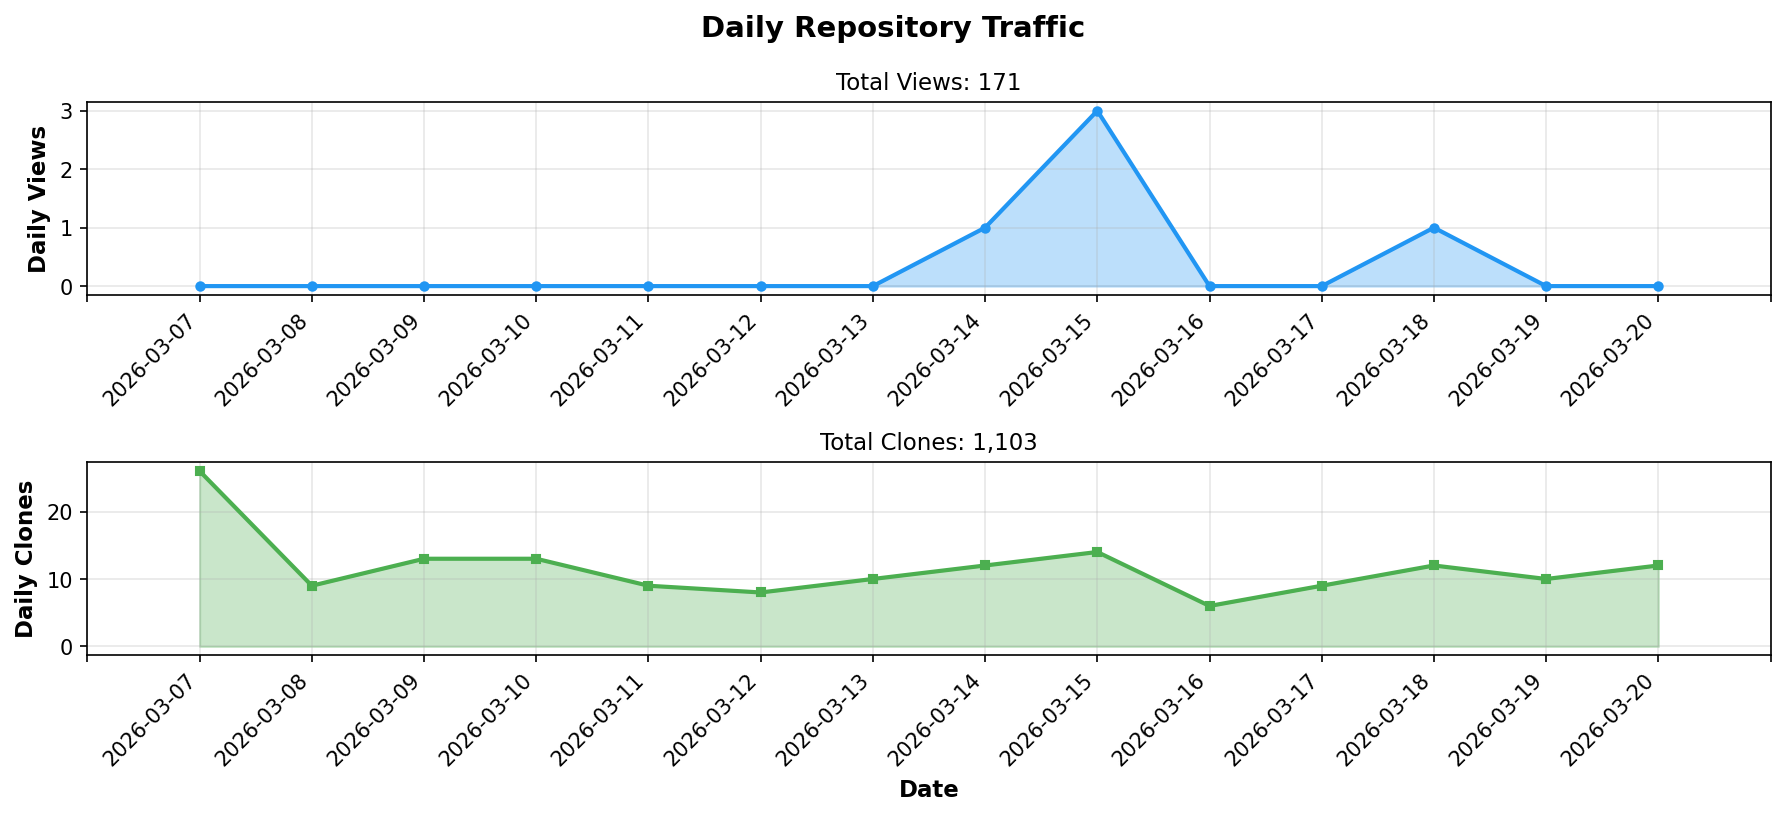
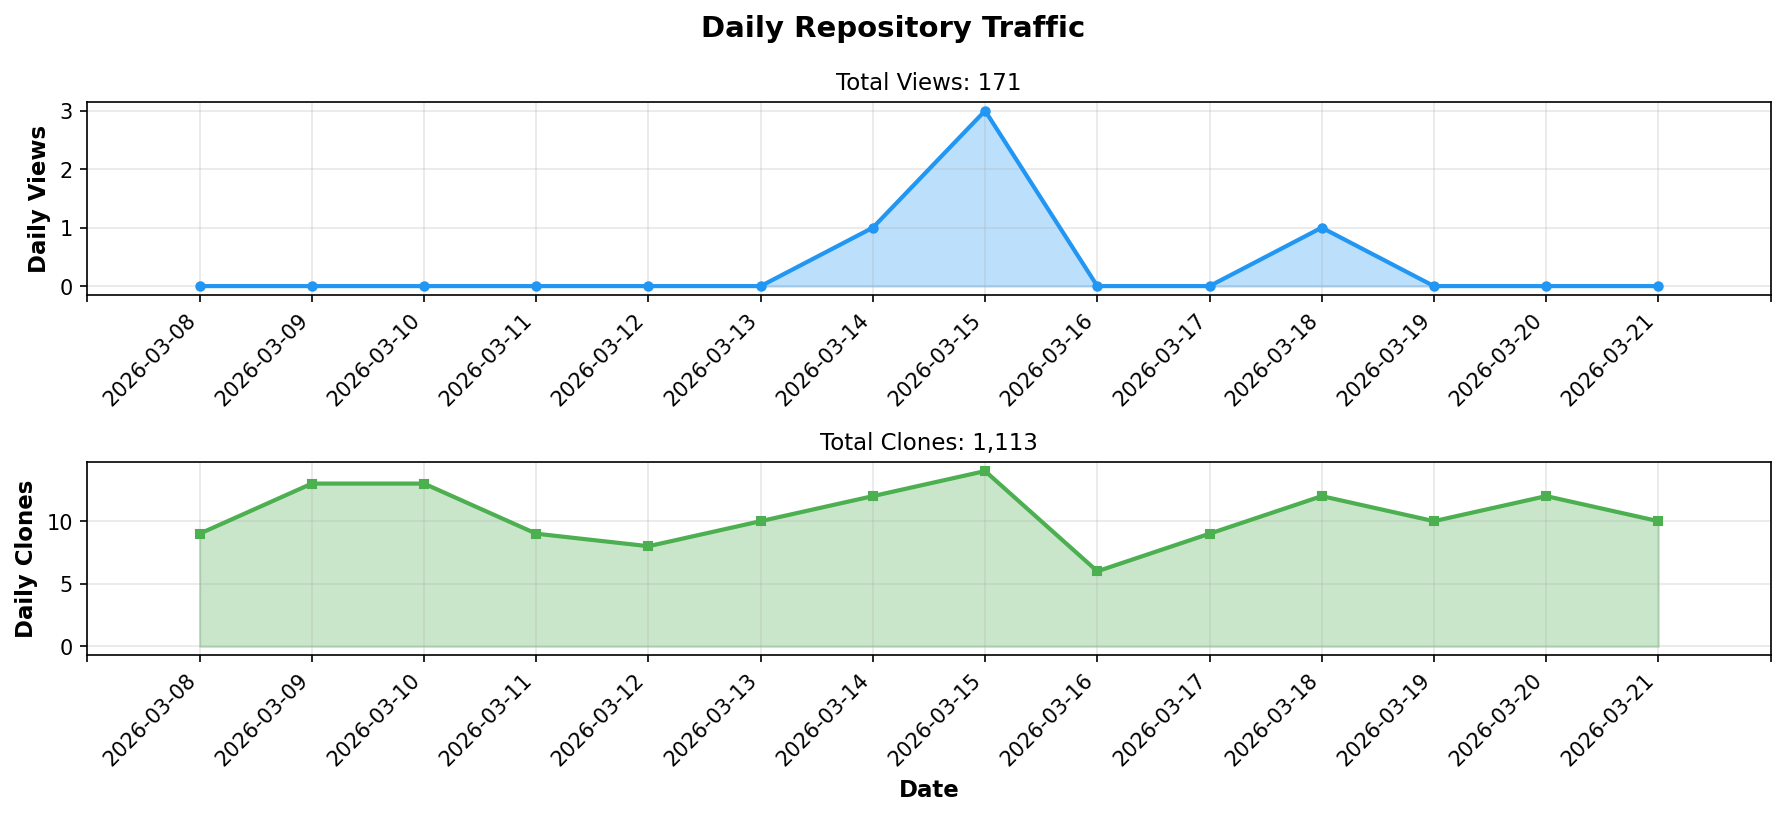
chore: update repository stats [skip ci]

diff --git a/README.md b/README.md
@@ -42,9 +42,9 @@ Baconian is a Rust project.
 | Metric | Count |
 |--------|-------|
 | **Total Views** / 総閲覧数 | **171** |
-| **Total Clones** / 総クローン数 | **1,103** |
+| **Total Clones** / 総クローン数 | **1,113** |
 
-*Last Updated / 最終更新: 2026-03-22 01:34 UTC*
+*Last Updated / 最終更新: 2026-03-23 01:34 UTC*
 
 </div>
 <!-- STATS_END -->
